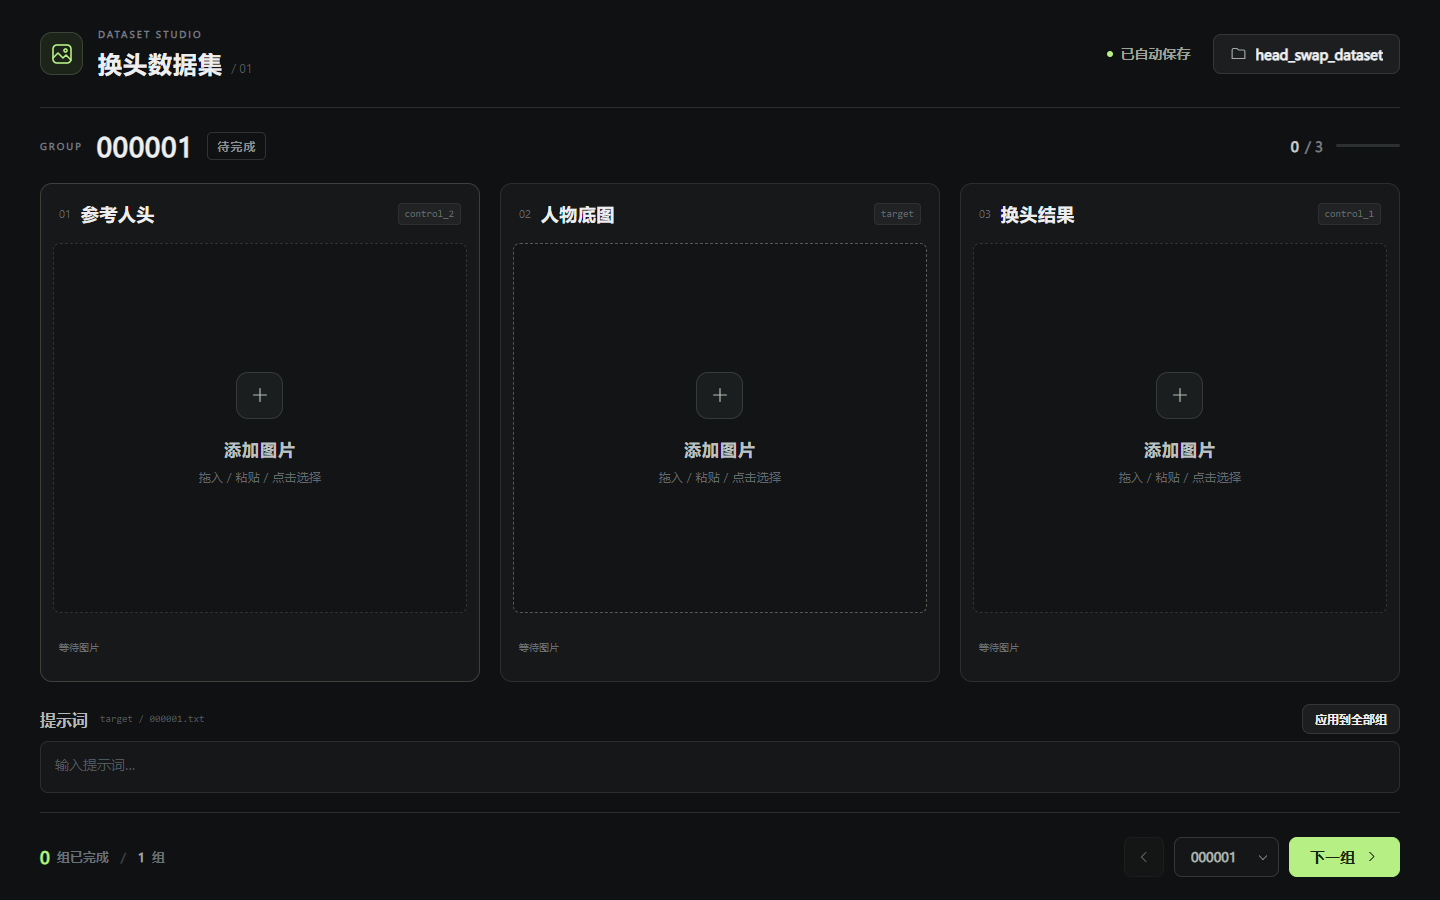
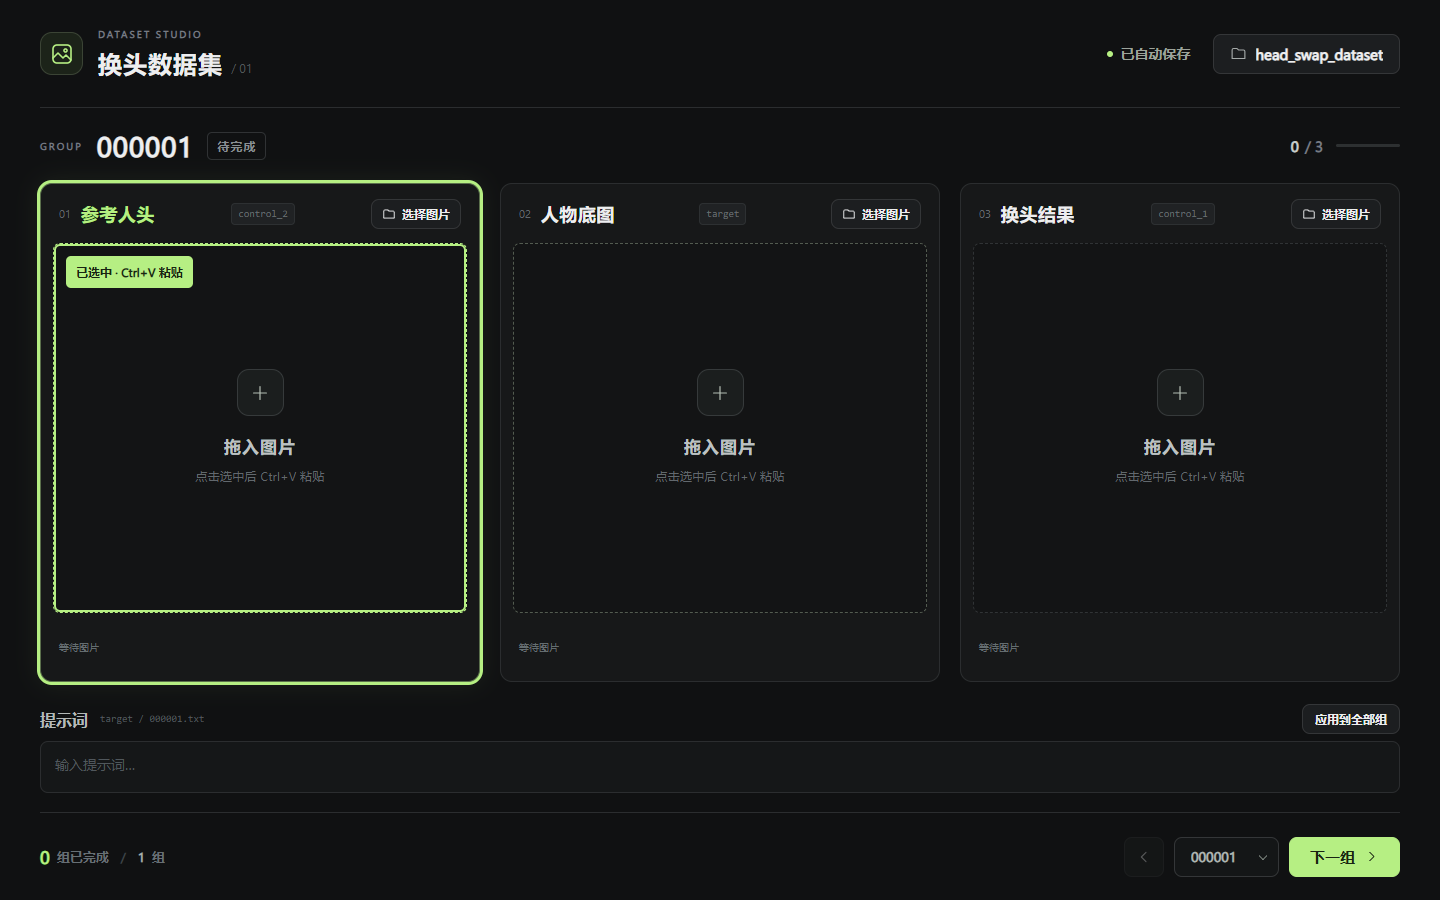
将图片选择按钮移至右上角并强化粘贴区域选中提示

diff --git a/index.html b/index.html
@@ -39,21 +39,21 @@
       </div>
       <div class="image-grid">
         <article class="image-card active" data-slot="reference" tabindex="0" aria-label="参考人头，图片输入区">
-          <div class="card-header"><div class="card-title"><span class="card-number">01</span><h2>参考人头</h2></div><span class="directory-label">control_2</span></div>
-          <button class="image-stage" aria-label="添加参考人头图片"><span class="empty-state"><span class="add-icon"><svg><use href="#icon-plus"/></svg></span><span class="empty-title">添加图片</span><span class="empty-hint">拖入 / 粘贴 / 点击选择</span></span><img class="card-image" hidden alt="参考人头"><span class="preview-affordance" hidden><svg><use href="#icon-expand"/></svg></span></button>
-          <div class="card-footer"><span class="image-info">等待图片</span><button class="replace-button" aria-label="替换参考人头" title="替换图片" hidden><svg><use href="#icon-replace"/></svg><span>替换</span></button></div>
+          <div class="card-header"><div class="card-title"><span class="card-number">01</span><h2>参考人头</h2></div><span class="directory-label">control_2</span><button class="button choose-image-button" aria-label="选择参考人头图片"><svg><use href="#icon-folder"/></svg><span>选择图片</span></button></div>
+          <button class="image-stage" aria-label="选中参考人头粘贴区" aria-pressed="true"><span class="selection-indicator">已选中 · Ctrl+V 粘贴</span><span class="empty-state"><span class="add-icon"><svg><use href="#icon-plus"/></svg></span><span class="empty-title">拖入图片</span><span class="empty-hint">点击选中后 Ctrl+V 粘贴</span></span><img class="card-image" hidden alt="参考人头"></button>
+          <div class="card-footer"><span class="image-info">等待图片</span><button class="preview-button" aria-label="预览参考人头" title="放大预览" hidden><svg><use href="#icon-expand"/></svg><span>预览</span></button></div>
           <input class="image-input" type="file" accept="image/*" hidden>
         </article>
         <article class="image-card" data-slot="target" tabindex="0" aria-label="人物底图，图片输入区">
-          <div class="card-header"><div class="card-title"><span class="card-number">02</span><h2>人物底图</h2></div><span class="directory-label">target</span></div>
-          <button class="image-stage" aria-label="添加人物底图图片"><span class="empty-state"><span class="add-icon"><svg><use href="#icon-plus"/></svg></span><span class="empty-title">添加图片</span><span class="empty-hint">拖入 / 粘贴 / 点击选择</span></span><img class="card-image" hidden alt="人物底图"><span class="preview-affordance" hidden><svg><use href="#icon-expand"/></svg></span></button>
-          <div class="card-footer"><span class="image-info">等待图片</span><button class="replace-button" aria-label="替换人物底图" title="替换图片" hidden><svg><use href="#icon-replace"/></svg><span>替换</span></button></div>
+          <div class="card-header"><div class="card-title"><span class="card-number">02</span><h2>人物底图</h2></div><span class="directory-label">target</span><button class="button choose-image-button" aria-label="选择人物底图图片"><svg><use href="#icon-folder"/></svg><span>选择图片</span></button></div>
+          <button class="image-stage" aria-label="选中人物底图粘贴区" aria-pressed="false"><span class="selection-indicator">已选中 · Ctrl+V 粘贴</span><span class="empty-state"><span class="add-icon"><svg><use href="#icon-plus"/></svg></span><span class="empty-title">拖入图片</span><span class="empty-hint">点击选中后 Ctrl+V 粘贴</span></span><img class="card-image" hidden alt="人物底图"></button>
+          <div class="card-footer"><span class="image-info">等待图片</span><button class="preview-button" aria-label="预览人物底图" title="放大预览" hidden><svg><use href="#icon-expand"/></svg><span>预览</span></button></div>
           <input class="image-input" type="file" accept="image/*" hidden>
         </article>
         <article class="image-card" data-slot="result" tabindex="0" aria-label="换头结果，图片输入区">
-          <div class="card-header"><div class="card-title"><span class="card-number">03</span><h2>换头结果</h2></div><span class="directory-label">control_1</span></div>
-          <button class="image-stage" aria-label="添加换头结果图片"><span class="empty-state"><span class="add-icon"><svg><use href="#icon-plus"/></svg></span><span class="empty-title">添加图片</span><span class="empty-hint">拖入 / 粘贴 / 点击选择</span></span><img class="card-image" hidden alt="换头结果"><span class="preview-affordance" hidden><svg><use href="#icon-expand"/></svg></span></button>
-          <div class="card-footer"><span class="image-info">等待图片</span><button class="replace-button" aria-label="替换换头结果" title="替换图片" hidden><svg><use href="#icon-replace"/></svg><span>替换</span></button></div>
+          <div class="card-header"><div class="card-title"><span class="card-number">03</span><h2>换头结果</h2></div><span class="directory-label">control_1</span><button class="button choose-image-button" aria-label="选择换头结果图片"><svg><use href="#icon-folder"/></svg><span>选择图片</span></button></div>
+          <button class="image-stage" aria-label="选中换头结果粘贴区" aria-pressed="false"><span class="selection-indicator">已选中 · Ctrl+V 粘贴</span><span class="empty-state"><span class="add-icon"><svg><use href="#icon-plus"/></svg></span><span class="empty-title">拖入图片</span><span class="empty-hint">点击选中后 Ctrl+V 粘贴</span></span><img class="card-image" hidden alt="换头结果"></button>
+          <div class="card-footer"><span class="image-info">等待图片</span><button class="preview-button" aria-label="预览换头结果" title="放大预览" hidden><svg><use href="#icon-expand"/></svg><span>预览</span></button></div>
           <input class="image-input" type="file" accept="image/*" hidden>
         </article>
       </div>

diff --git a/app.js b/app.js
@@ -51,7 +51,11 @@
 
   function setActive(slot) {
     state.activeSlot = slot;
-    for (const card of cards) card.classList.toggle("active", card.dataset.slot === slot);
+    for (const card of cards) {
+      const selected = card.dataset.slot === slot;
+      card.classList.toggle("active", selected);
+      card.querySelector(".image-stage").setAttribute("aria-pressed", String(selected));
+    }
   }
 
   function setBusy(busy) {
@@ -151,10 +155,12 @@
       const imageElement = card.querySelector(".card-image");
       card.classList.toggle("has-image", Boolean(image));
       card.querySelector(".empty-state").hidden = Boolean(image);
-      card.querySelector(".replace-button").hidden = !image;
-      card.querySelector(".preview-affordance").hidden = !image;
+      card.querySelector(".preview-button").hidden = !image;
+      const chooseButton = card.querySelector(".choose-image-button");
+      chooseButton.querySelector("span").textContent = image ? "替换图片" : "选择图片";
+      chooseButton.setAttribute("aria-label", `${image ? "替换" : "选择"}${labels[slot]}图片`);
       imageElement.hidden = !image;
-      card.querySelector(".image-stage").setAttribute("aria-label", `${image ? "预览" : "添加"}${labels[slot]}图片`);
+      card.querySelector(".image-stage").setAttribute("aria-label", `选中${labels[slot]}粘贴区`);
       if (image) {
         const url = URL.createObjectURL(image.blob);
         imageUrls.set(slot, url);
@@ -388,8 +394,8 @@
   for (const card of cards) {
     const slot = card.dataset.slot;
     const input = card.querySelector(".image-input");
-    card.addEventListener("pointerdown", () => setActive(slot));
-    card.addEventListener("focusin", () => setActive(slot));
+    card.addEventListener("pointerdown", () => { if (canEdit()) setActive(slot); });
+    card.addEventListener("focusin", () => { if (canEdit()) setActive(slot); });
     card.addEventListener("keydown", event => {
       if (event.target === card && (event.key === "Enter" || event.key === " ")) {
         event.preventDefault();
@@ -398,10 +404,16 @@
     });
     card.querySelector(".image-stage").addEventListener("click", () => {
       if (!canEdit()) return;
-      if (currentGroup().images[slot]) showPreview(slot);
-      else input.click();
+      setActive(slot);
     });
-    card.querySelector(".replace-button").addEventListener("click", () => { if (canEdit()) input.click(); });
+    card.querySelector(".choose-image-button").addEventListener("click", () => {
+      if (!canEdit()) return;
+      setActive(slot);
+      input.click();
+    });
+    card.querySelector(".preview-button").addEventListener("click", () => {
+      if (canEdit()) showPreview(slot);
+    });
     input.addEventListener("change", () => { const file = input.files[0]; input.value = ""; void addImage(slot, file); });
     let dragDepth = 0;
     card.addEventListener("dragenter", event => { event.preventDefault(); dragDepth++; if (!state.busy && state.directoryReady) card.classList.add("dragging"); });

diff --git a/styles.css b/styles.css
@@ -103,3 +103,18 @@ select{font-size:14px;font-weight:700}
 @media(max-width:1000px){.image-card{grid-template-rows:54px minmax(0,1fr) 70px}.card-footer{padding:0 12px}.image-dimensions{font-size:12px}.image-details{font-size:10px}}
 @media(max-width:720px){.image-card{grid-template-rows:48px minmax(0,1fr) 82px}.card-footer{padding:0 8px;gap:4px}.image-dimensions{font-size:10px}.image-details{font-size:9px}.prompt-label{gap:8px}.prompt-label #prompt-file{font-size:9px}.apply-prompt-button{font-size:11px;padding:0 9px}.image-info{gap:3px}}
 @media(max-height:660px){.image-card{grid-template-rows:44px minmax(0,1fr) 64px}.prompt-panel{grid-template-rows:30px minmax(0,1fr)}}
+.image-card.active[aria-disabled="false"]{border-color:var(--accent);box-shadow:0 0 0 3px var(--accent),0 0 24px #b6ef8318}
+.image-card.active[aria-disabled="false"] .image-stage{border-color:var(--accent);box-shadow:inset 0 0 0 2px var(--accent)}
+.image-card.active[aria-disabled="false"] .card-title h2{color:var(--accent)}
+.selection-indicator{display:none;position:absolute;left:12px;top:12px;z-index:1;max-width:calc(100% - 24px);padding:7px 10px;border-radius:5px;background:var(--accent);color:#192412;font-size:12px;font-weight:800;line-height:1.5;pointer-events:none}
+.active[aria-disabled="false"] .selection-indicator{display:block}
+.choose-image-button{margin-left:auto;height:30px;padding:0 10px;gap:6px;font-size:12px;white-space:nowrap;flex-shrink:0}
+.choose-image-button svg{width:14px;height:14px}
+.card-header .directory-label{margin-left:auto}
+.card-header{gap:10px}
+.preview-button{display:flex;align-items:center;gap:5px;flex-shrink:0;color:#a4afa8;background:none;border:0;padding:8px 0 8px 8px;font-size:12px;font-weight:700}
+.preview-button:hover{color:var(--accent)}
+.preview-button svg{width:15px;height:15px}
+.empty-hint{max-width:100%;line-height:1.7}
+@media(max-width:1100px){.card-header .directory-label{display:none}.card-header{gap:6px}.choose-image-button{padding:0 8px;font-size:11px}.preview-button span{display:none}}
+@media(max-width:720px){.image-card{grid-template-rows:76px minmax(0,1fr) 82px}.card-header{flex-wrap:wrap;align-content:center;justify-content:flex-end;gap:5px}.card-title{width:100%}.choose-image-button{height:26px;font-size:10px;padding:0 6px}.choose-image-button svg{width:12px;height:12px}.selection-indicator{left:5px;top:6px;max-width:calc(100% - 10px);padding:4px 5px;font-size:10px}.empty-hint{max-width:92px;font-size:10px}.image-card.active[aria-disabled="false"]{box-shadow:0 0 0 3px var(--accent)}}

diff --git a/使用说明.md b/使用说明.md
@@ -3,10 +3,10 @@
 使用电脑端 **Microsoft Edge 或 Google Chrome** 打开 `index.html`，无需安装依赖或联网。
 
 1. 打开页面后必须先确定保存路径。页面会校验保存文件夹的访问权限、三个数据子目录，以及是否能够实际写入并删除测试文件；通过后才允许编辑。若选择的是普通目录，会在其中创建 `head_swap_dataset`；也可直接选择已有的数据集文件夹。
-2. 在三栏中拖入图片、点击选择图片，或先点击对应栏的标题再按 `Ctrl+V` 粘贴图片。
+2. 使用每栏右上角的「选择图片」按钮打开文件选择器，或直接拖入图片。点击图片区后，该区显示醒目的加粗边框和「已选中 · Ctrl+V 粘贴」，再按 `Ctrl+V` 将剪贴板图片加入该区。点击主图片区仅用于选中，不会打开文件选择器或预览。
 3. 提示词可编辑，默认留空。点击「应用到全部组」，会弹框确认；确认后当前提示词覆盖所有现有组并自动保存，取消则不修改其他组。当前提示词为空时，确认后清空所有现有组的提示词。此按钮仅影响当前已有的组，新建组仍默认留空。图片和文字修改后自动保存，顶部显示保存状态。
 4. 三张图片全部添加后才能进入下一组。使用「上一组」或编号选择框回看，亦可用左右方向键切换。
-5. 点击已添加的图片放大预览，点击关闭按钮、空白处或按 `Esc` 关闭。通过「替换」、拖入或粘贴更换已有图片时，会要求确认。
+5. 点击图片底部的「预览」按钮放大预览，点击关闭按钮、空白处或按 `Esc` 关闭。已有图片的右上角按钮显示「替换图片」，通过该按钮、拖入或粘贴更换已有图片时，会要求确认。
 
 ## 文件对应关系
 

diff --git a/README.md b/README.md
@@ -20,7 +20,7 @@
 2. 按提示选择保存文件夹，完成路径校验。
 3. 添加三张图片，按需填写提示词，点击「下一组」继续。
 
-粘贴图片前，先点击对应输入区的标题，再按 `Ctrl+V`。关闭页面前，请等待顶部显示「已自动保存」。
+点击图片区将其选中，醒目的加粗边框标记当前粘贴目标，再按 `Ctrl+V` 粘贴图片。文件选择使用每栏右上角的「选择图片 / 替换图片」按钮；放大查看使用底部「预览」按钮。关闭页面前，请等待顶部显示「已自动保存」。
 
 ## 保存结构
 
